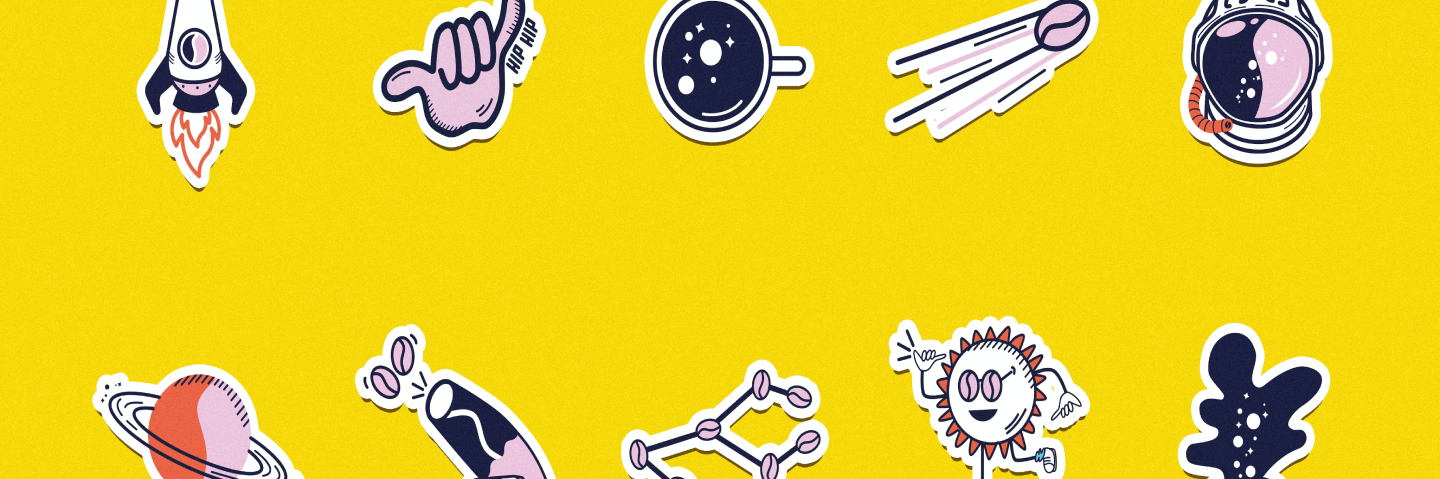
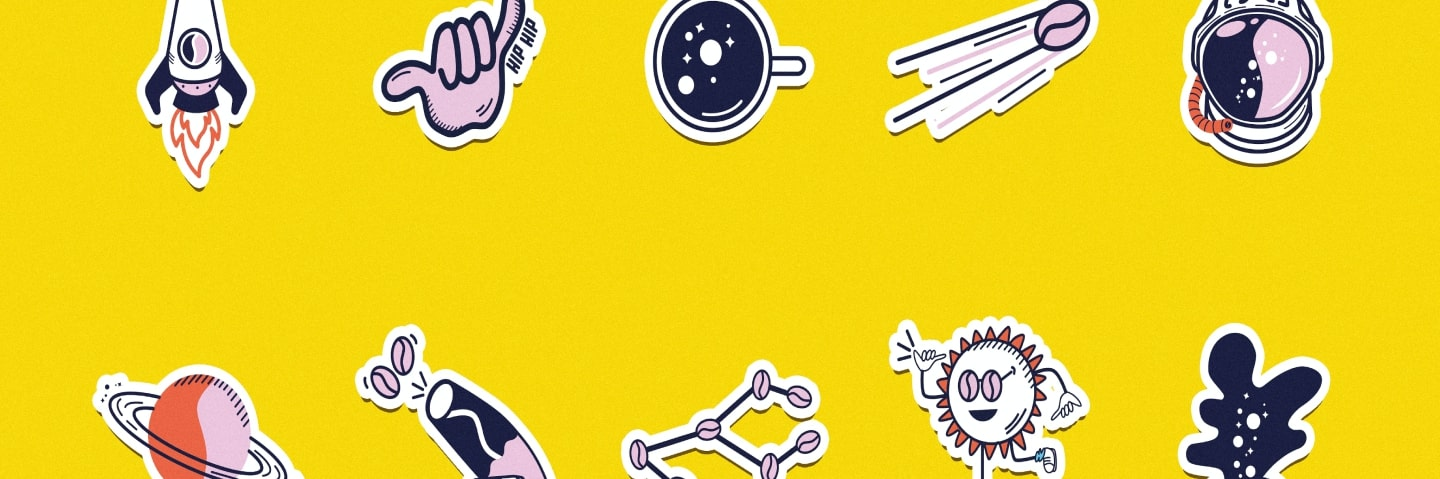
Print It

diff --git a/assets/script.js b/assets/script.js
@@ -12,7 +12,7 @@ const slides = [
 		"tagLine":"Grand choix de couleurs <span>de CMJN aux pantones</span>"
 	},
 	{
-		"image":"slide4.png",
+		"image":"slide4.jpg",
 		"tagLine":"Autocollants <span>avec découpe laser sur mesure</span>"
 	}
 ]
@@ -20,26 +20,32 @@ const slides = [
 let arrow_left = document.getElementById("arrow_left")
 arrow_left.addEventListener("click", () => { 
  console.log("J'ai cliqué sur la flèche left")
+ previousSlide();
+});
 
- if  (currentSlideIndex === 0) {
-        currentSlideIndex = slides.length - 1; 
-    } else {
-        currentSlideIndex--;
-    }
-    goToSlide(currentSlideIndex);
-})
+ function previousSlide() {
+	if (currentSlideIndex === 0) {
+		currentSlideIndex = slides.length - 1;
+	} else {
+		currentSlideIndex--;
+	}
+	goToSlide(currentSlideIndex);
+}
 
 let arrow_right = document.getElementById("arrow_right")
 arrow_right.addEventListener("click", () => { 
  console.log("J'ai cliqué sur la flèche right")
+ nextSlide();
+});
 
-  if (currentSlideIndex === slides.length - 1) {
-        currentSlideIndex = 0; 
-    } else {
-        currentSlideIndex++;
-    }
-    goToSlide(currentSlideIndex);
-})
+  function nextSlide() {
+	if (currentSlideIndex === slides.length - 1) {
+		currentSlideIndex = 0;
+	} else {
+		currentSlideIndex++;
+	}
+	goToSlide(currentSlideIndex);
+  }
 
 const nombredeslides = slides.length
 
@@ -53,14 +59,14 @@ const dotsContainer = banner.querySelector(".dots");
 
 slides.forEach((slide, index) => {
 	const img = document.createElement("img");
-	img.classList.add("banner-img");
+	img.classList.add("banner-img", "banner-img-dynamic");
 	img.src = `./assets/images/slideshow/${slide.image}`;
 	img.style.display = index === 0 ? "block" : "none";
 	img.alt = `slide ${index + 1}`;
 	banner.insertBefore(img, tagLineElement); 
 });
 
-const bannerImages = document.querySelectorAll(".banner-img");
+const bannerImages = document.querySelectorAll(".banner-img-dynamic");
 
 function initializeSlides() {
 	bannerImages.forEach((img, index) => {
@@ -81,6 +87,8 @@ function createDots() {
 }
 
 function goToSlide(index) {
+	const previousIndex = currentSlideIndex;
+
 	bannerImages[currentSlideIndex].style.display = "none";
 	dotsContainer.children[currentSlideIndex].classList.remove("dot_selected");
 
